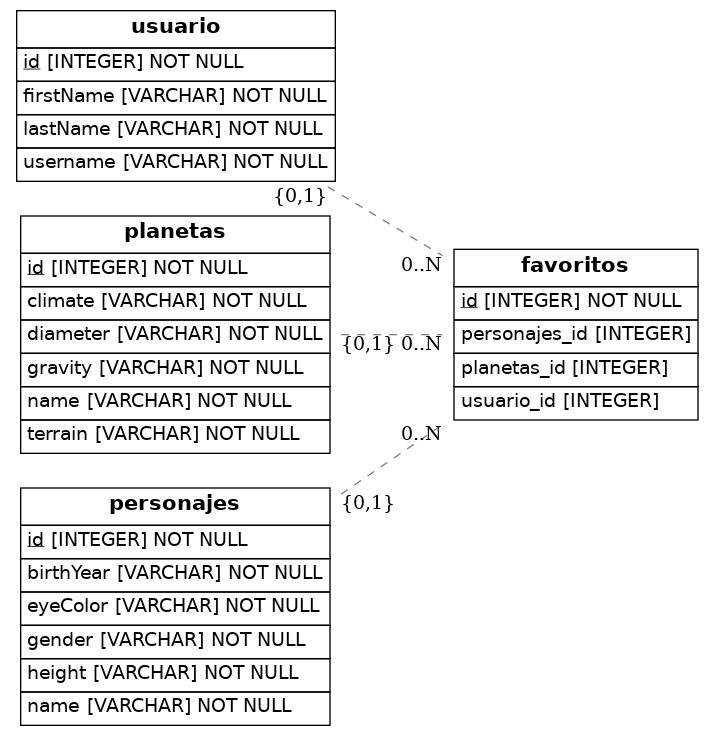
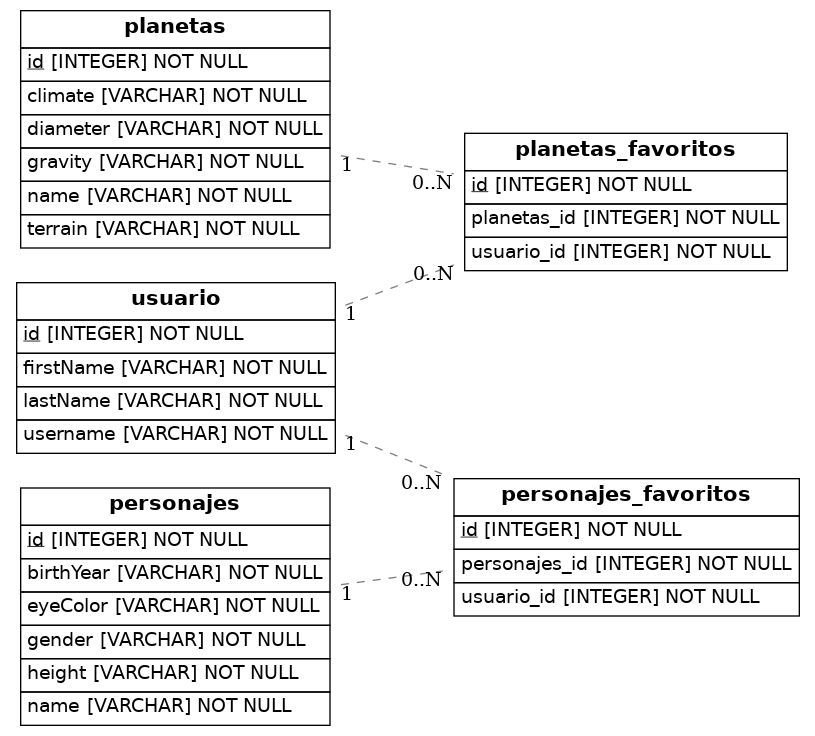
Starwars data model final

diff --git a/src/models.py b/src/models.py
@@ -17,16 +17,36 @@ class Usuario(Base):
 
     #address: Mapped["Address"] = relationship(back_populates="person")
 
-class Favoritos(Base):
-    __tablename__='favoritos'
+# class Favoritos(Base):
+#     __tablename__='favoritos'
+#     id: Mapped[int] = mapped_column(primary_key=True)
+#     usuario_id: Mapped[str] = mapped_column(ForeignKey('usuario.id'))
+#     usuario: Mapped["Usuario"] = relationship()
+
+#     planetas_id: Mapped[int] = mapped_column(ForeignKey('planetas.id'), nullable=True)
+#     planetas: Mapped["Planetas"] = relationship()
+
+#     personajes_id: Mapped[int] = mapped_column(ForeignKey('personajes.id'), nullable=True)
+#     personajes: Mapped["Personajes"] = relationship()
+
+class Planetas_favoritos(Base):
+    __tablename__='planetas_favoritos'
     id: Mapped[int] = mapped_column(primary_key=True)
-    usuario_id: Mapped[str] = mapped_column(ForeignKey('usuario.id'), nullable=True)
+    
+    usuario_id: Mapped[str] = mapped_column(ForeignKey('usuario.id'))
     usuario: Mapped["Usuario"] = relationship()
 
-    planetas_id: Mapped[int] = mapped_column(ForeignKey('planetas.id'), nullable=True)
+    planetas_id: Mapped[int] = mapped_column(ForeignKey('planetas.id'))
     planetas: Mapped["Planetas"] = relationship()
 
-    personajes_id: Mapped[int] = mapped_column(ForeignKey('personajes.id'), nullable=True)
+class Personajes_favoritos(Base):
+    __tablename__='personajes_favoritos'
+    id: Mapped[int] = mapped_column(primary_key=True)
+
+    usuario_id: Mapped[str] = mapped_column(ForeignKey('usuario.id'))
+    usuario: Mapped["Usuario"] = relationship()
+
+    personajes_id: Mapped[int] = mapped_column(ForeignKey('personajes.id'))
     personajes: Mapped["Personajes"] = relationship()
 
 
